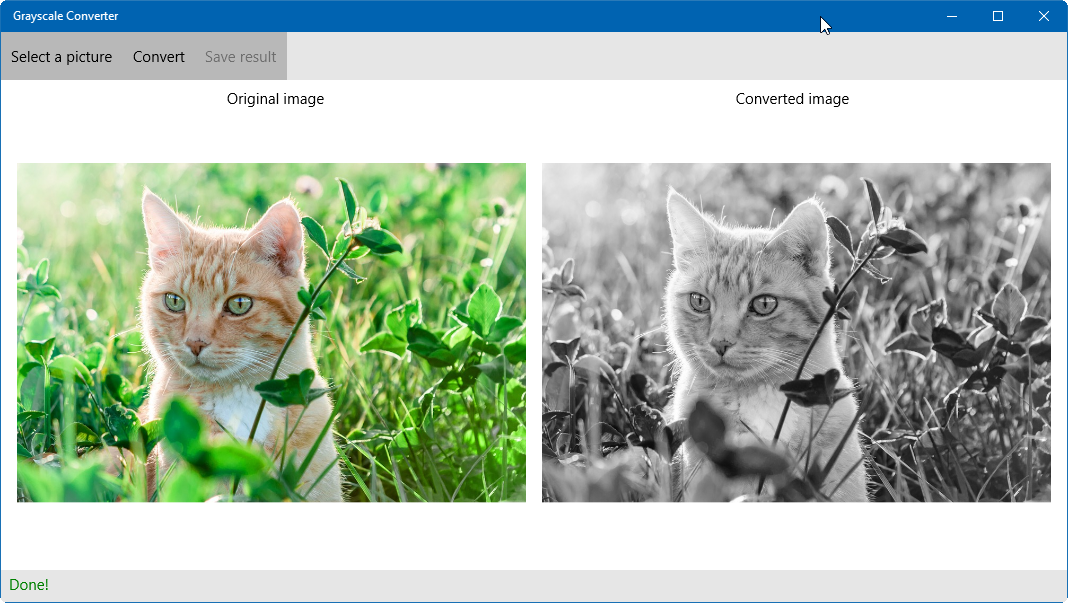
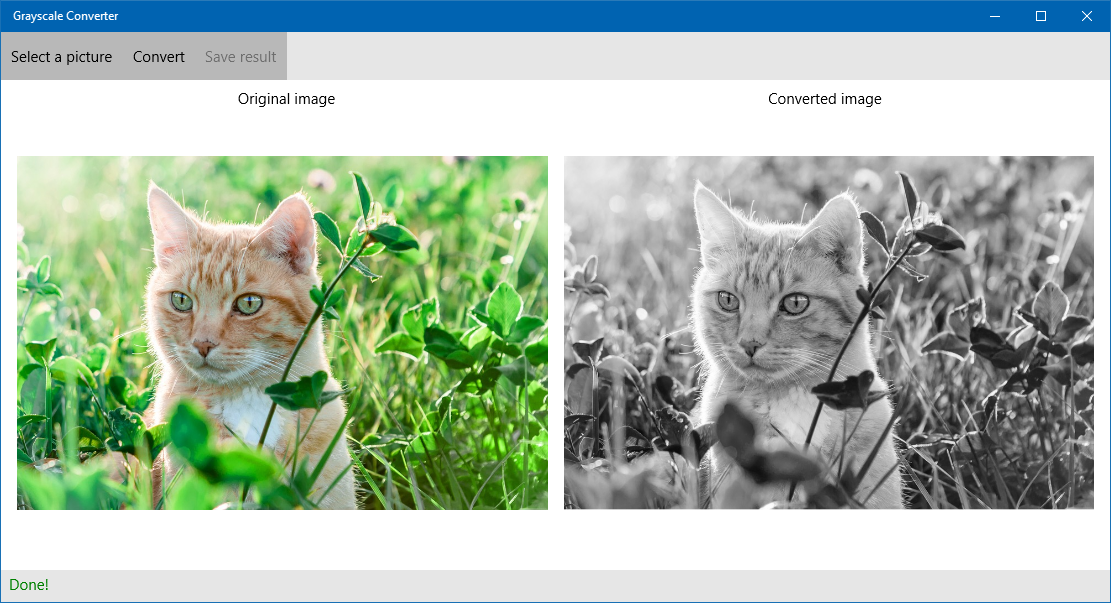
Updated README and fixed screenshot.

diff --git a/README.md b/README.md
@@ -14,6 +14,8 @@ The application demonstrates these tasks:
 
     Upon user command, the image will be decoded, converted and displayed next to the original picture for comparison.
 
+## Screenshot
+![Screenshot](https://github.com/MateiRadu/greyscale-converter/blob/master/Screenshots/W10Desktop.png)
 
 ## Formula
 The specific gray for pixel is calculated by assigning to each color their average:
@@ -25,6 +27,12 @@ byte NewRed   = Average;
 byte NewGreen = Average;
 byte NewBlue  = Average;
 ```
+
+## Future developments
+Some features would be nice to implement and I will eventually implement:
+- Drag n drop
+- Mobile optimized layout
+- Elapset time display
 
 ## Requirements
 In order to build and deploy the app, the following requirements must be met:
